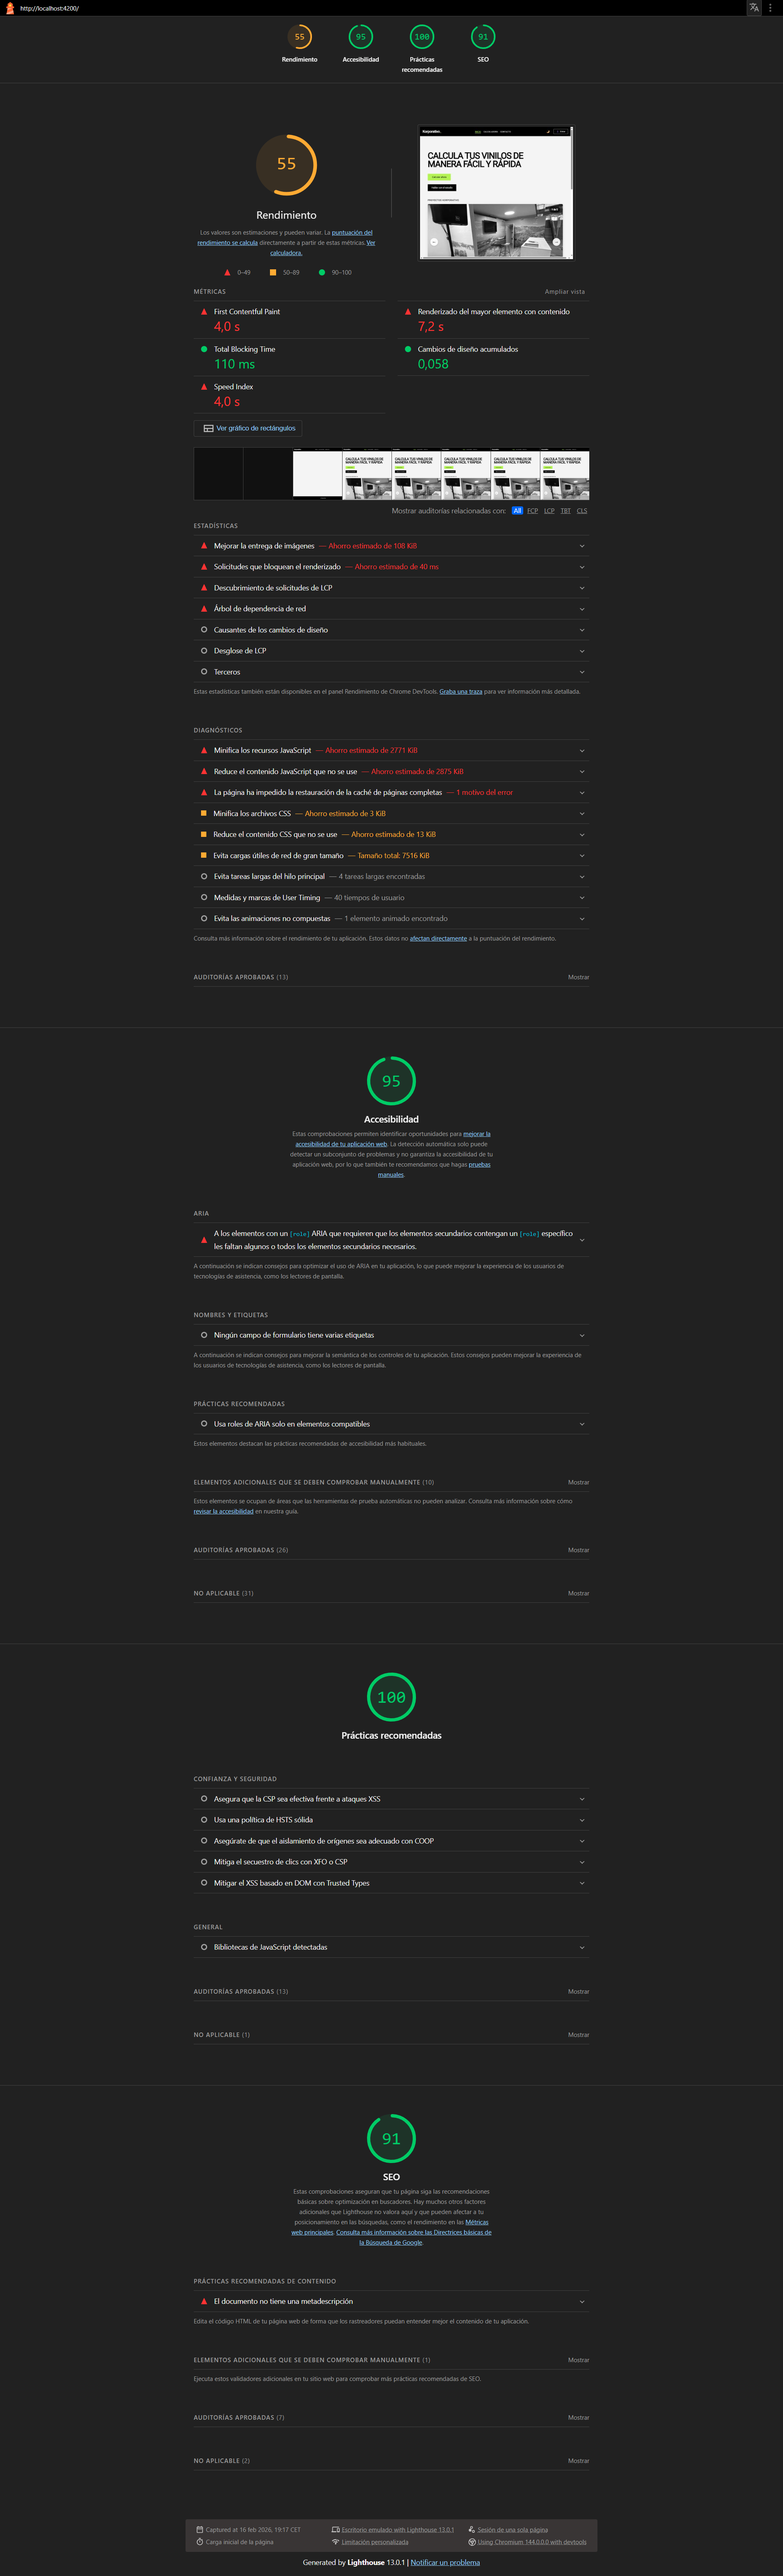
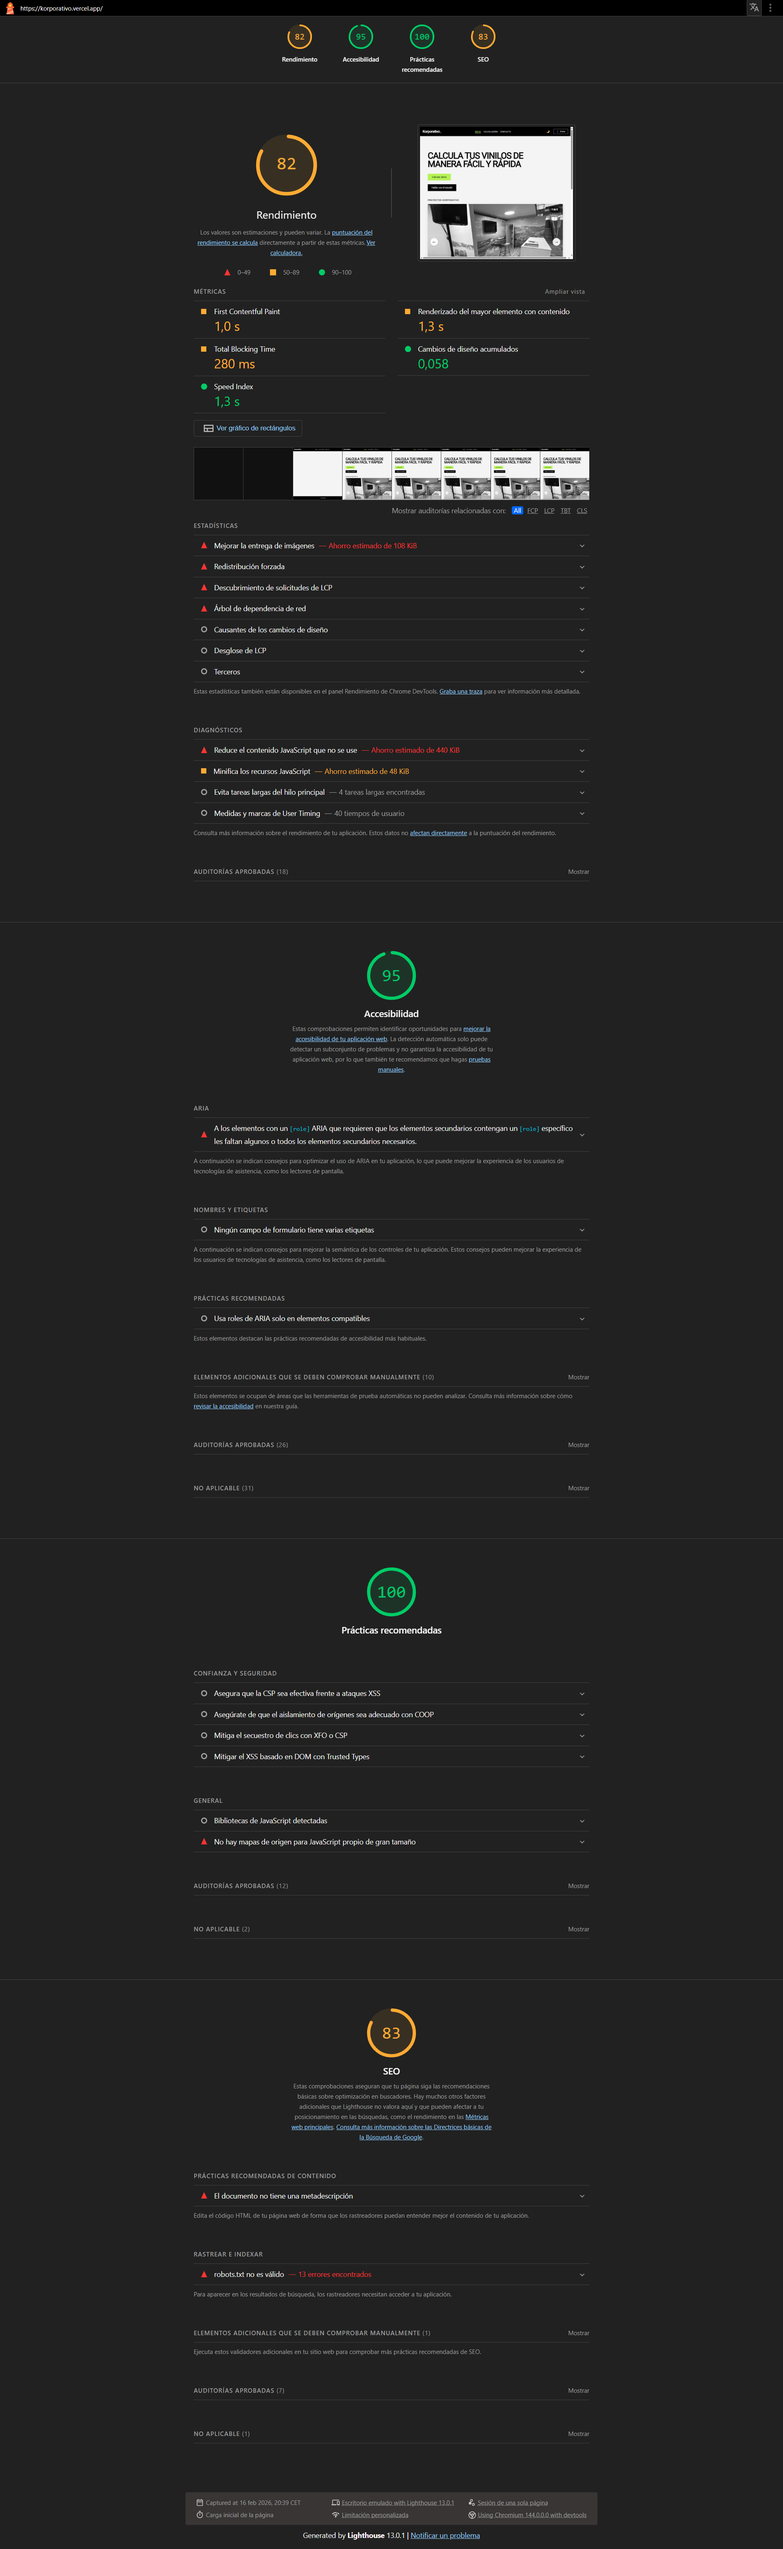
Corregido errores

diff --git a/frontend/src/app/pages/home/home.html b/frontend/src/app/pages/home/home.html
@@ -32,21 +32,21 @@
       <!-- CARRUSEL DE TRABAJOS REALIZADOS -->
       <section class="carousel" aria-labelledby="carousel-title">
         <h2 id="carousel-title" class="carousel__title">Proyectos Korporativo</h2>
-        
+
         <input type="radio" name="carousel-slide" id="slide-1" class="carousel__input" checked aria-label="Mostrar imagen 1">
         <input type="radio" name="carousel-slide" id="slide-2" class="carousel__input" aria-label="Mostrar imagen 2">
         <input type="radio" name="carousel-slide" id="slide-3" class="carousel__input" aria-label="Mostrar imagen 3">
         <input type="radio" name="carousel-slide" id="slide-4" class="carousel__input" aria-label="Mostrar imagen 4">
         <input type="radio" name="carousel-slide" id="slide-5" class="carousel__input" aria-label="Mostrar imagen 5">
-        
+
         <!-- Contenedor del carrusel -->
         <div class="carousel__container">
-          
+
           <!-- Track de imágenes -->
           <ul class="carousel__track">
             <li class="carousel__slide">
               <figure class="carousel__figure">
-                <img 
+                <img
                   src="assets/images/gallery/trabajo-1.jpeg"
                   alt="Rotulación corporativa en escaparate de oficina con logotipo y horarios"
                   class="carousel__img"
@@ -56,10 +56,10 @@
                 >
               </figure>
             </li>
-            
+
             <li class="carousel__slide">
               <figure class="carousel__figure">
-                <img 
+                <img
                   src="assets/images/gallery/trabajo-2.jpeg"
                   alt="Vinilo decorativo de árbol en pared de recepción de empresa"
                   class="carousel__img"
@@ -69,10 +69,10 @@
                 >
               </figure>
             </li>
-            
+
             <li class="carousel__slide">
               <figure class="carousel__figure">
-                <img 
+                <img
                   src="assets/images/gallery/trabajo-3.jpeg"
                   alt="Vinilo adhesivo con diseño geométrico en cristalera de restaurante"
                   class="carousel__img"
@@ -82,10 +82,10 @@
                 >
               </figure>
             </li>
-            
+
             <li class="carousel__slide">
               <figure class="carousel__figure">
-                <img 
+                <img
                   src="assets/images/gallery/trabajo-4.jpeg"
                   alt="Rotulación de vehículo comercial con logotipo y datos de contacto"
                   class="carousel__img"
@@ -95,10 +95,10 @@
                 >
               </figure>
             </li>
-            
+
             <li class="carousel__slide">
               <figure class="carousel__figure">
-                <img 
+                <img
                   src="assets/images/gallery/trabajo-5.jpeg"
                   alt="Vinilo decorativo con frases motivadoras en pared de gimnasio"
                   class="carousel__img"
@@ -109,7 +109,7 @@
               </figure>
             </li>
           </ul>
-          
+
           <nav class="carousel__nav" aria-label="Navegación del carrusel">
             <!-- Botones PREV -->
             <label for="slide-5" class="carousel__btn carousel__btn--prev carousel__btn--from-1" aria-label="Imagen anterior">←</label>
@@ -117,7 +117,7 @@
             <label for="slide-2" class="carousel__btn carousel__btn--prev carousel__btn--from-3" aria-label="Imagen anterior">←</label>
             <label for="slide-3" class="carousel__btn carousel__btn--prev carousel__btn--from-4" aria-label="Imagen anterior">←</label>
             <label for="slide-4" class="carousel__btn carousel__btn--prev carousel__btn--from-5" aria-label="Imagen anterior">←</label>
-            
+
             <!-- Botones NEXT -->
             <label for="slide-2" class="carousel__btn carousel__btn--next carousel__btn--from-1" aria-label="Imagen siguiente">→</label>
             <label for="slide-3" class="carousel__btn carousel__btn--next carousel__btn--from-2" aria-label="Imagen siguiente">→</label>
@@ -125,21 +125,21 @@
             <label for="slide-5" class="carousel__btn carousel__btn--next carousel__btn--from-4" aria-label="Imagen siguiente">→</label>
             <label for="slide-1" class="carousel__btn carousel__btn--next carousel__btn--from-5" aria-label="Imagen siguiente">→</label>
           </nav>
-          
+
           <!-- Indicadores de posición (dots) -->
-          <div class="carousel__indicators" role="tablist" aria-label="Indicadores de imagen">
-            <label for="slide-1" class="carousel__indicator" role="tab" aria-label="Ir a imagen 1"></label>
-            <label for="slide-2" class="carousel__indicator" role="tab" aria-label="Ir a imagen 2"></label>
-            <label for="slide-3" class="carousel__indicator" role="tab" aria-label="Ir a imagen 3"></label>
-            <label for="slide-4" class="carousel__indicator" role="tab" aria-label="Ir a imagen 4"></label>
-            <label for="slide-5" class="carousel__indicator" role="tab" aria-label="Ir a imagen 5"></label>
+          <div class="carousel__indicators" aria-label="Indicadores de imagen">
+            <label for="slide-1" class="carousel__indicator" aria-label="Ir a imagen 1"></label>
+            <label for="slide-2" class="carousel__indicator" aria-label="Ir a imagen 2"></label>
+            <label for="slide-3" class="carousel__indicator" aria-label="Ir a imagen 3"></label>
+            <label for="slide-4" class="carousel__indicator" aria-label="Ir a imagen 4"></label>
+            <label for="slide-5" class="carousel__indicator" aria-label="Ir a imagen 5"></label>
           </div>
-          
+
           <!-- Contador de posición -->
           <div class="carousel__counter" aria-live="polite">
             <span class="carousel__counter-text"></span>
           </div>
-          
+
         </div>
       </section>
 

diff --git a/frontend/src/app/components/layout/header/header.html b/frontend/src/app/components/layout/header/header.html
@@ -1,7 +1,7 @@
 <header class="layout-header">
 
   <!-- LOGO -->
-  <a routerLink="/" class="layout-header__logo" aria-label="Ir al inicio">
+  <a routerLink="/" class="layout-header__logo" aria-label="Korporativo - Ir al inicio">
     Korporativo<span class="dot" aria-hidden="true">.</span>
   </a>
 

diff --git a/frontend/src/app/components/shared/tabs/tabs.html b/frontend/src/app/components/shared/tabs/tabs.html
@@ -5,6 +5,7 @@
       class="tabs__tab"
       [class.tabs__tab--active]="activeTab === tab.id"
       type="button"
+      role="tab"
       (click)="activeTab = tab.id">
       {{ tab.label }}
     </button>
